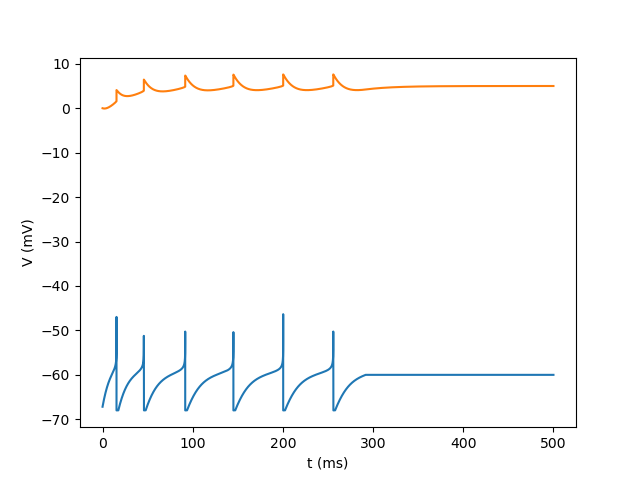
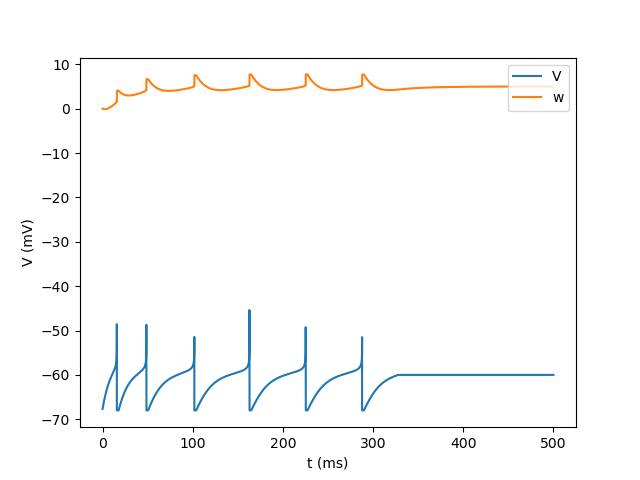
modify some images in Reduced models

diff --git a/neuron_models/AdEx_model.py b/neuron_models/AdEx_model.py
@@ -62,29 +62,30 @@ class AdEx(bp.dyn.NeuGroup):
     self.input[:] = 0.  # 重置外界输入
 
 
-# # 运行AdExIF模型
-# neu = AdEx(1)
-# runner = bp.DSRunner(neu, monitors=['V', 'w'], inputs=('input', 9.), dt=0.01)
-# runner(500)
+# 运行AdEx模型
+neu = AdEx(1)
+runner = bp.DSRunner(neu, monitors=['V', 'w'], inputs=('input', 9.), dt=0.01)
+runner(500)
+
+# 可视化V和w的变化
+plt.plot(runner.mon.ts, runner.mon.V, label='V')
+plt.plot(runner.mon.ts, runner.mon.w, label='w')
+plt.xlabel('t (ms)')
+plt.ylabel('V (mV)')
+
+plt.legend(loc='upper right')
+plt.show()
+
+# fig, ax1 = plt.subplots()
+# ax1.plot(runner.mon.ts, runner.mon.V[:, 0], label='V')
+# ax1.set_ylabel('V')
 #
-# # 可视化V和w的变化
-# plt.plot(runner.mon.ts, runner.mon.V, label='V')
-# plt.plot(runner.mon.ts, runner.mon.w, label='w')
-# plt.xlabel('t (ms)')
-# plt.ylabel('V (mV)')
+# ax2 = ax1.twinx()
+# ax2.plot(runner.mon.ts, runner.mon.w[:, 0], color='orange', label='w')
+# ax2.set_ylabel('w')
 #
+# fig.legend(loc="upper center")
 # plt.show()
-#
-# # fig, ax1 = plt.subplots()
-# # ax1.plot(runner.mon.ts, runner.mon.V[:, 0], label='V')
-# # ax1.set_ylabel('V')
-# #
-# # ax2 = ax1.twinx()
-# # ax2.plot(runner.mon.ts, runner.mon.w[:, 0], color='orange', label='w')
-# # ax2.set_ylabel('w')
-# #
-# # fig.legend(loc="upper center")
-# # plt.show()
 #
 #
 # # fig, ax1 = plt.subplots()
